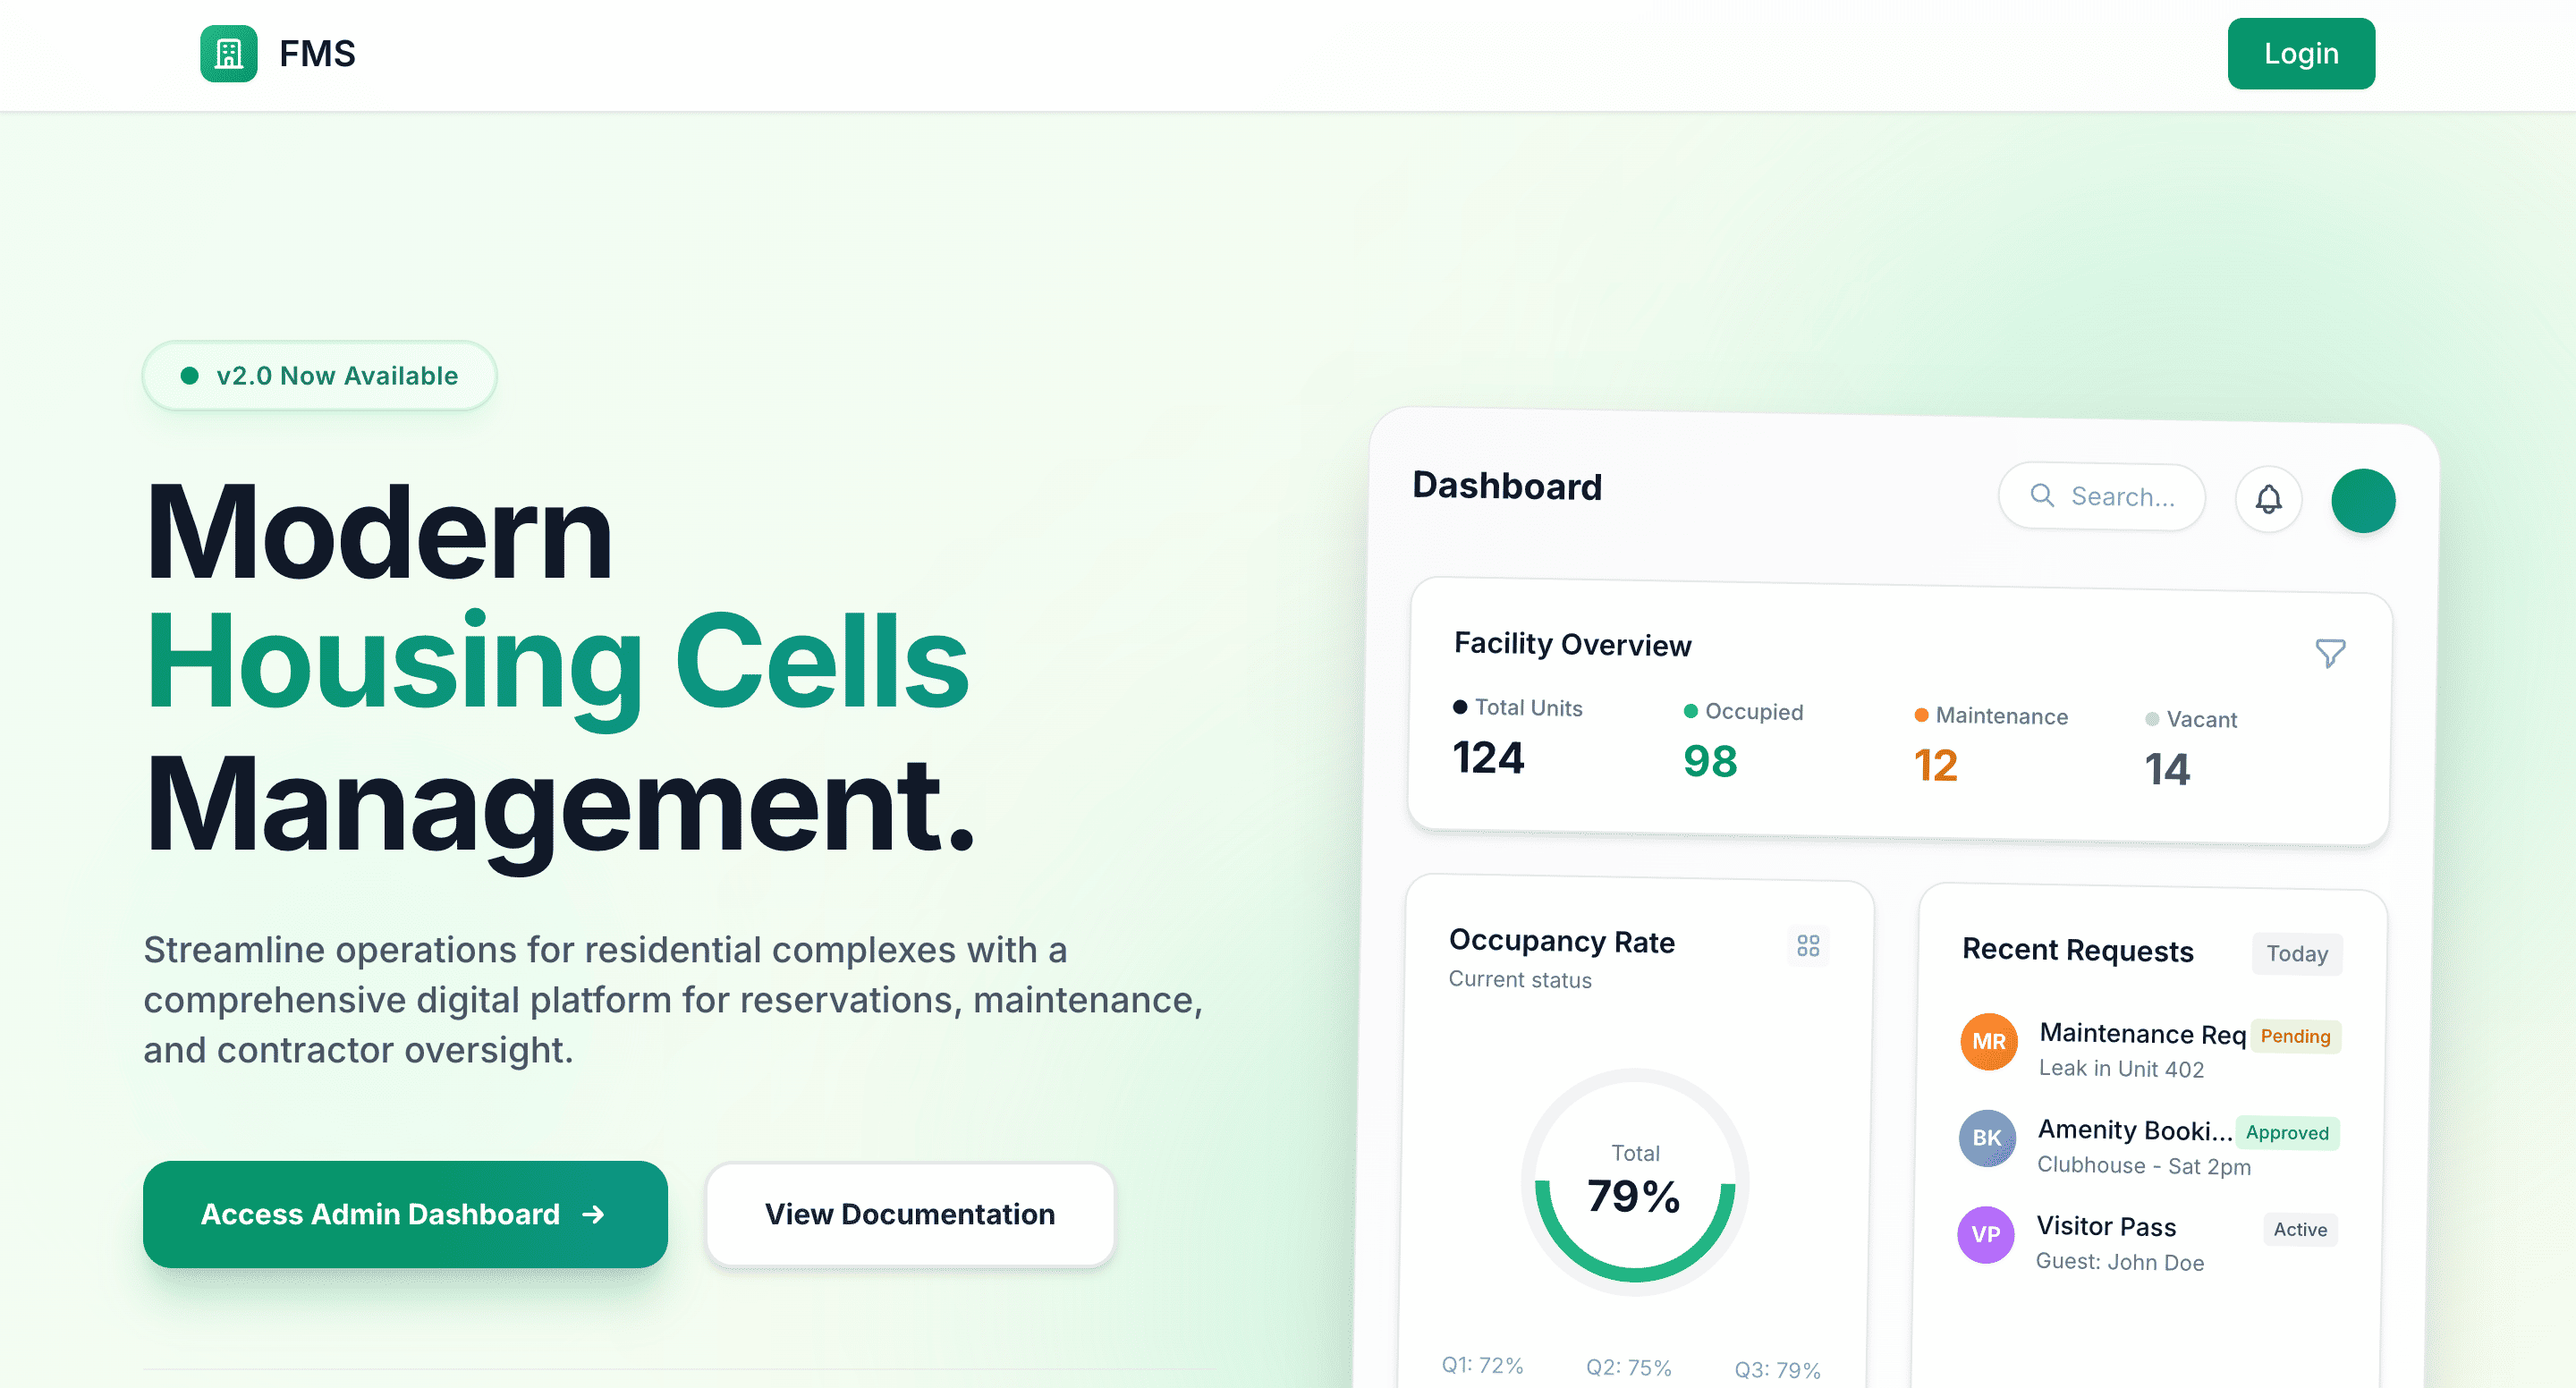
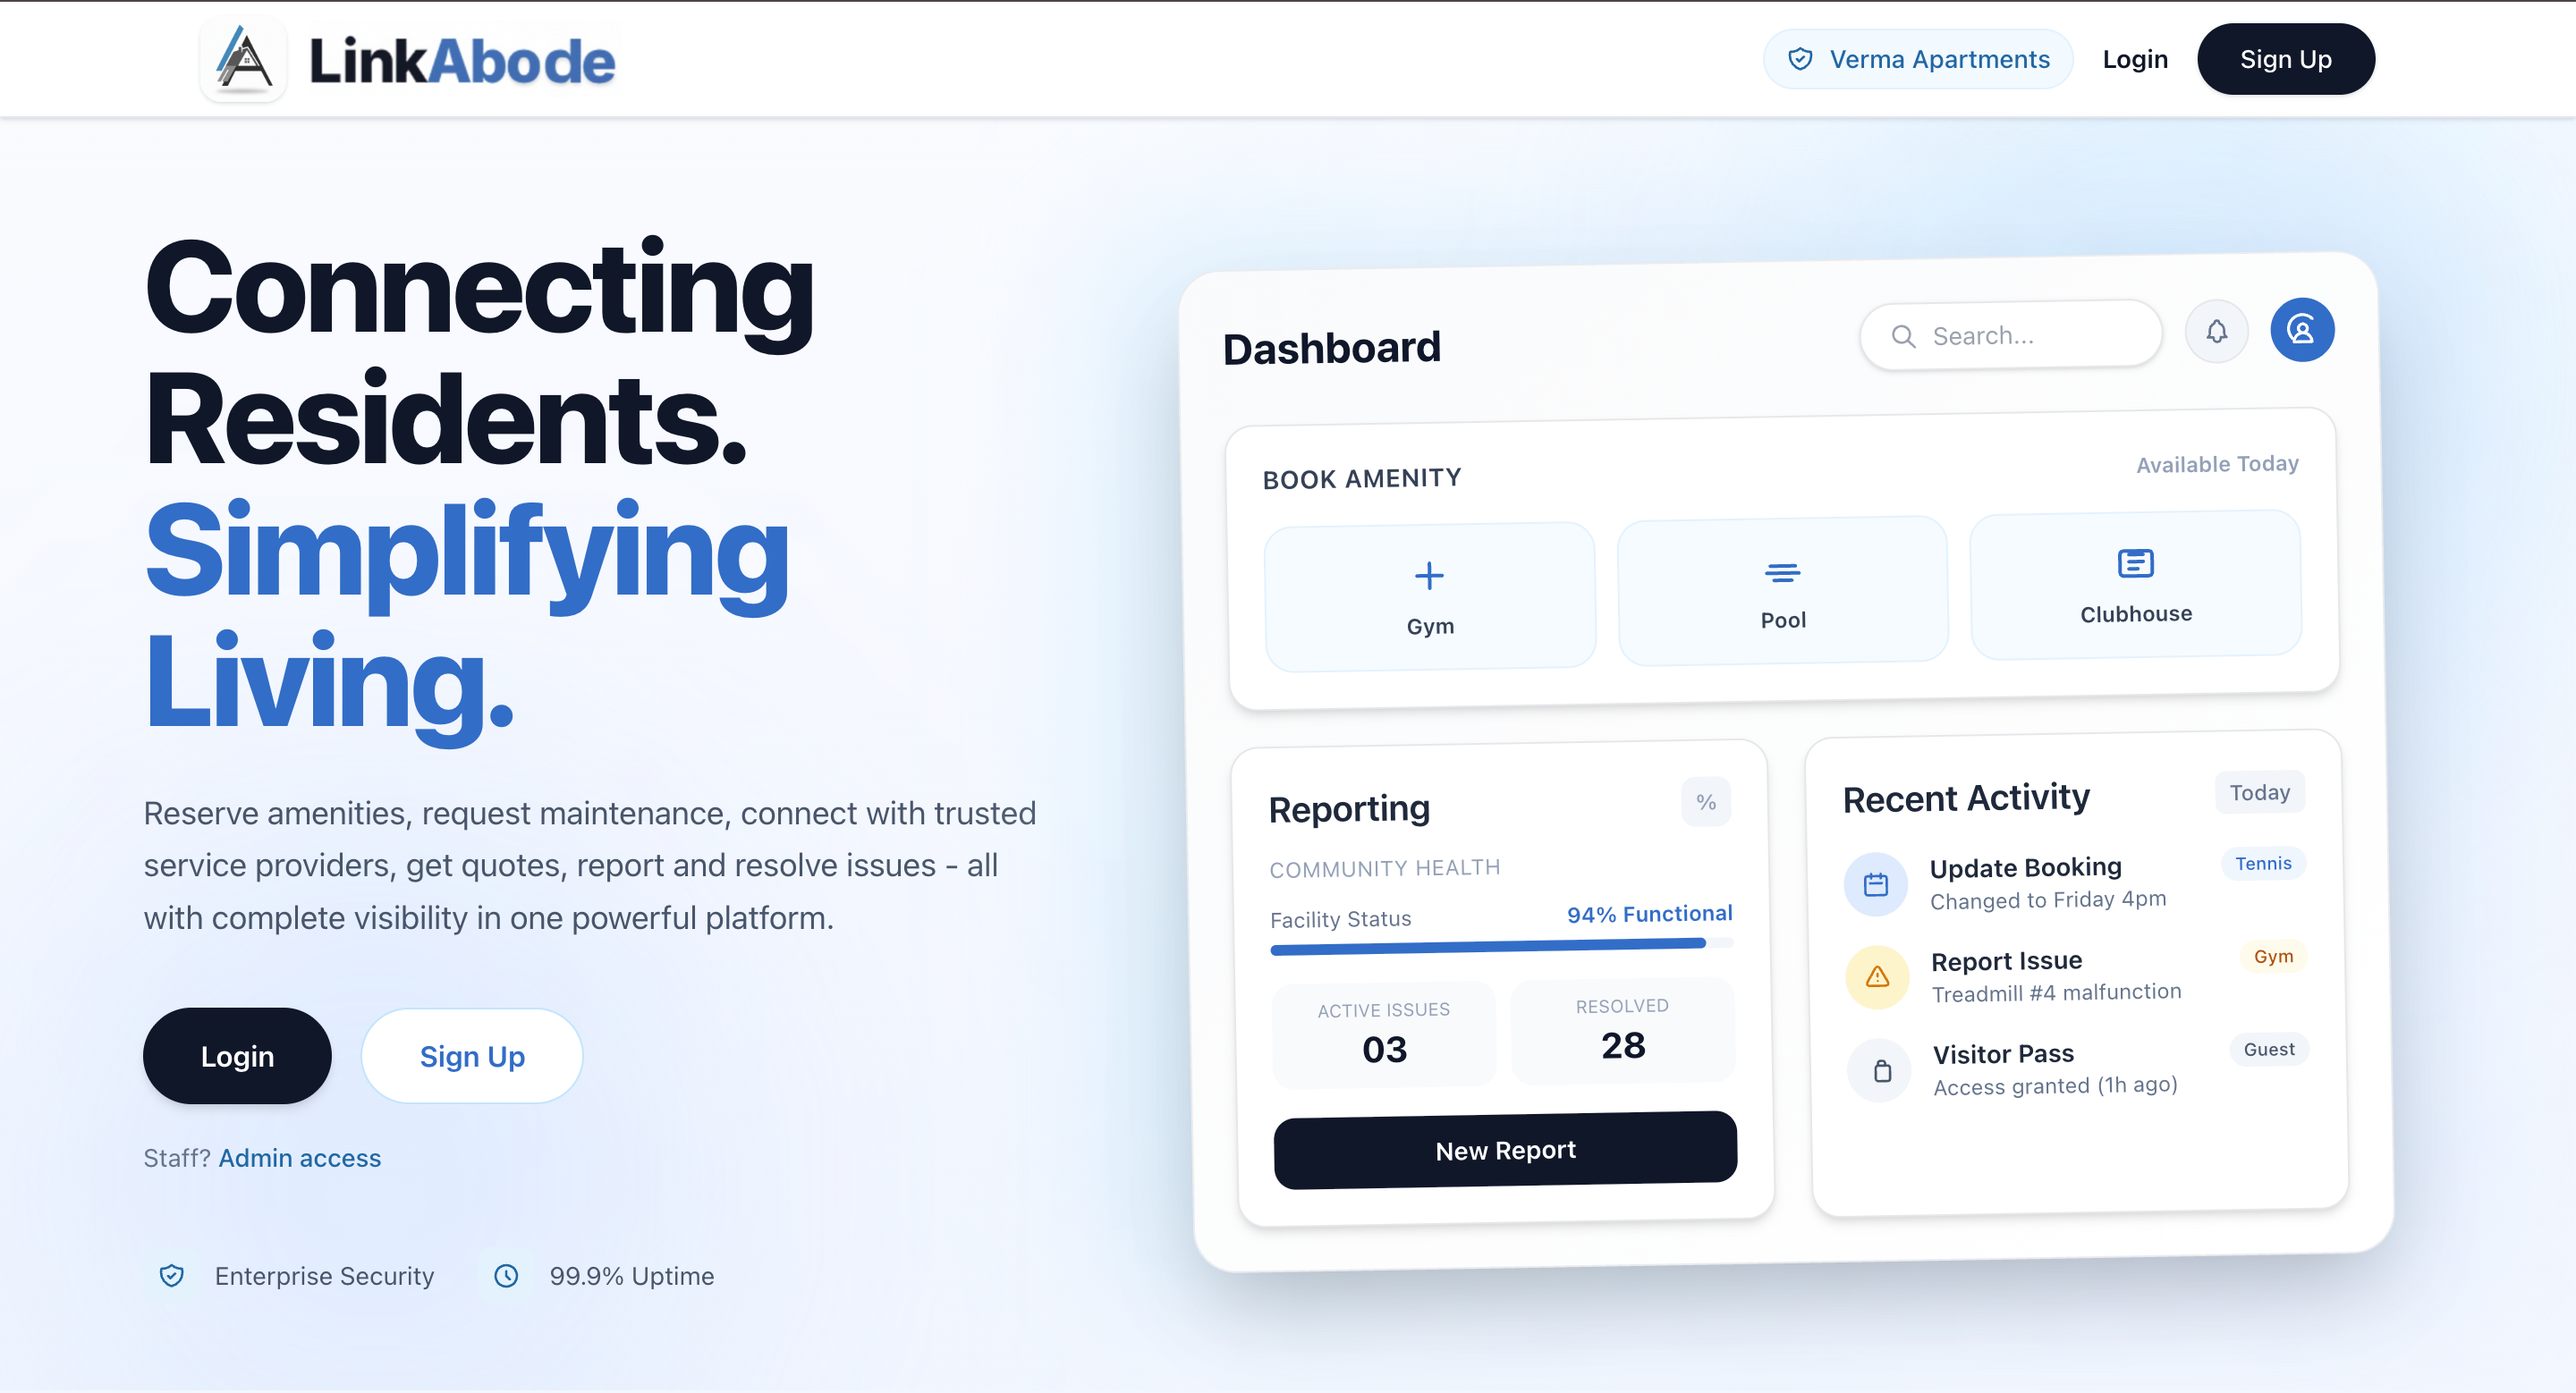
Just changed a bit of text and image

diff --git a/components/About.tsx b/components/About.tsx
@@ -25,7 +25,7 @@ const About = () => {
     },
     {
       category: 'Backend',
-      tools: ['Django', 'Laravel', 'Node.js', 'REST APIs', 'GraphQL']
+      tools: ['Laravel','Node.js','Django', 'REST APIs', 'GraphQL']
     },
     {
       category: 'Databases',
